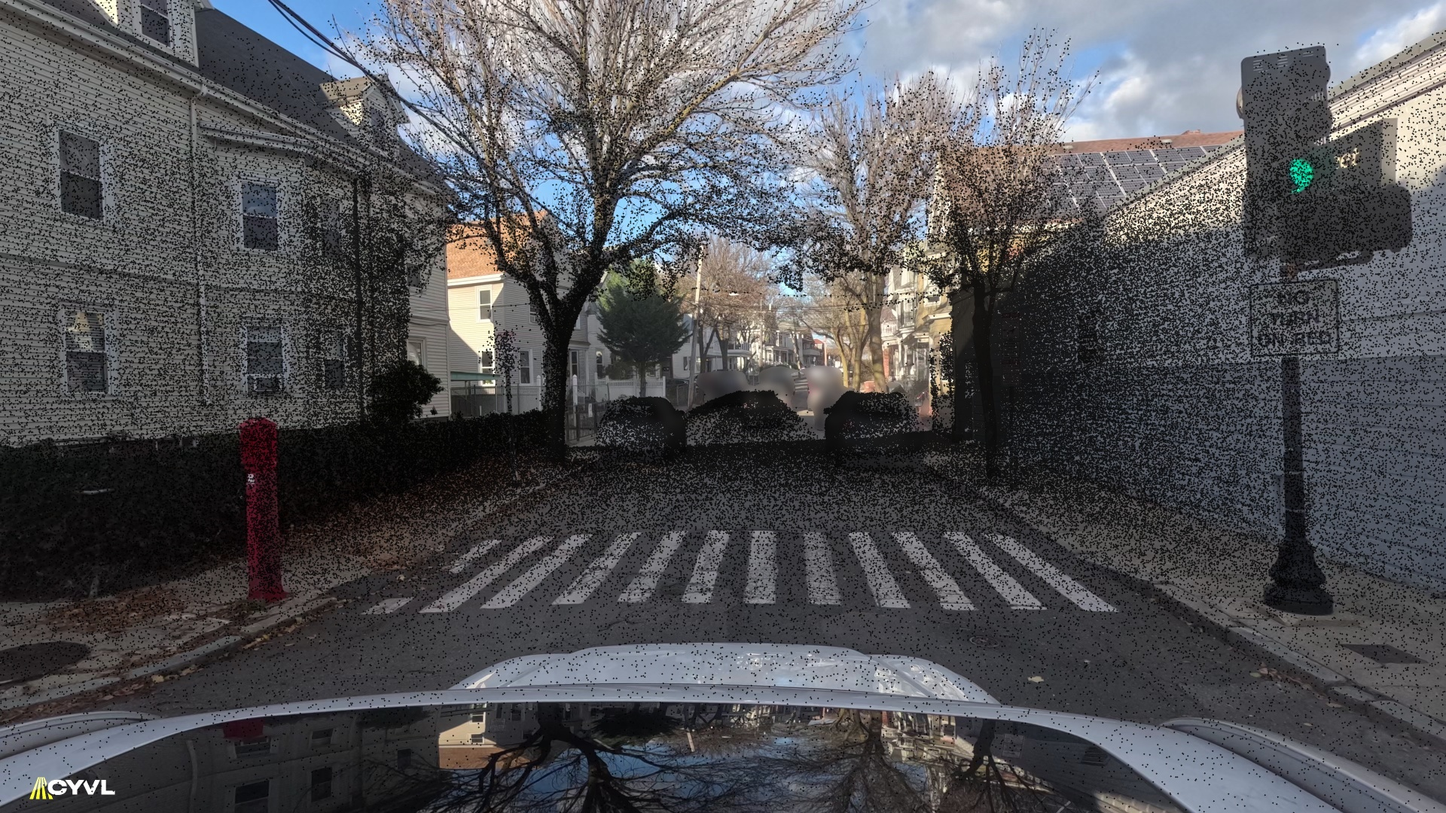
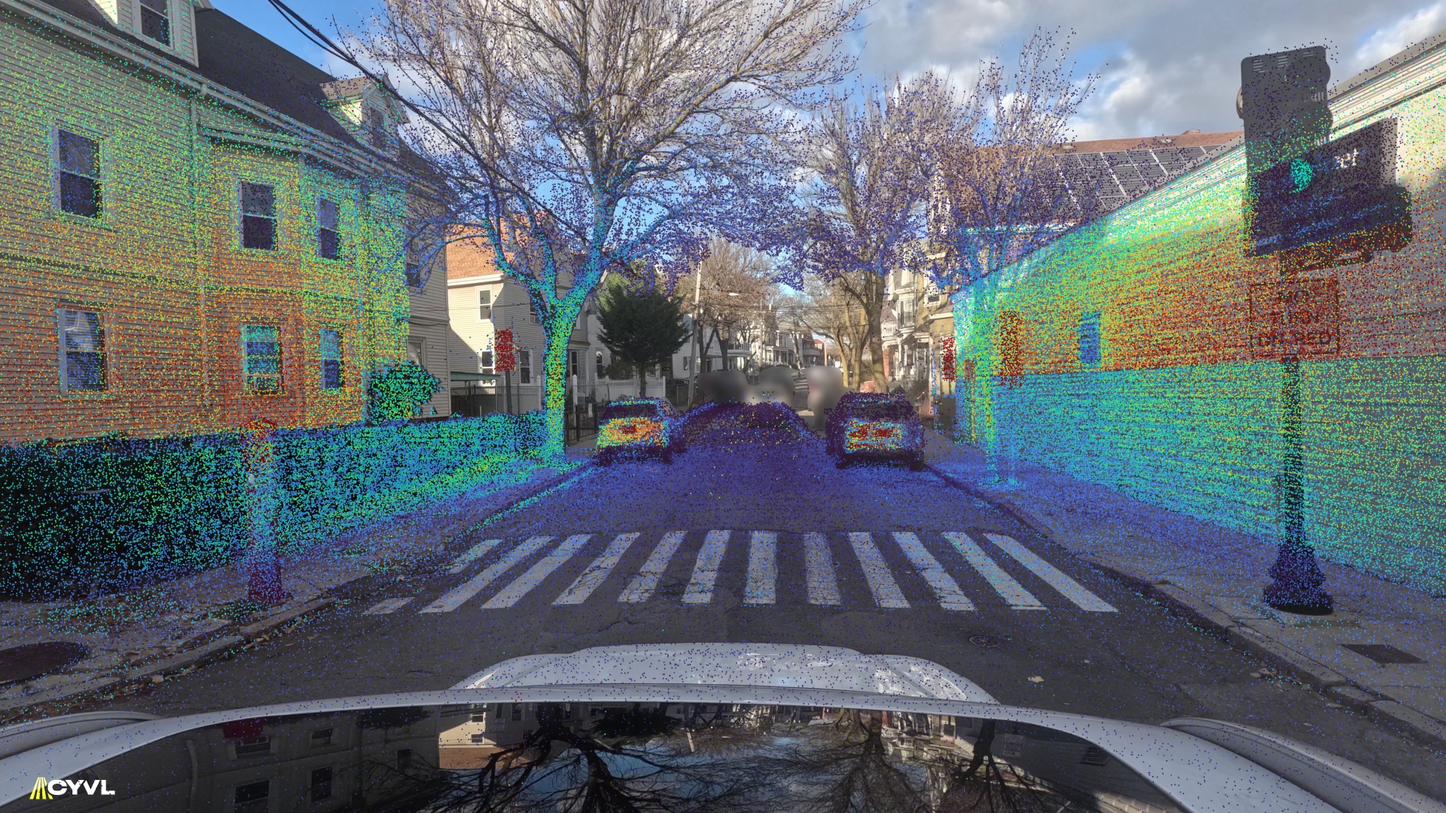
feat: intensity color ramp + tighter same-pass window (5s default)
Ghost vehicles in drapes were moving objects scanned seconds before/after
the shutter (no dynamic classification exists for this scan — checked
tiles AND raw per-scan PCDs). Window sweep on a busy intersection shows
+/-5s is ghost-free with dense coverage; +/-2s for heavy traffic.
Projected now carries intensity; Frame.show defaults to a percentile-
normalized turbo intensity ramp.

diff --git a/src/cyvl/frame.py b/src/cyvl/frame.py
@@ -30,6 +30,7 @@ class Projected:
     in_view: np.ndarray  # (N,) bool: inside frustum AND image bounds
     points_utm: np.ndarray  # (N, 3) the projected world points
     colors: np.ndarray | None = None  # (N, 3) uint8 when source had RGB
+    intensity: np.ndarray | None = None  # (N,) lidar return intensity
 
     def __len__(self) -> int:
         return len(self.pixels)
@@ -100,6 +101,7 @@ class Frame:
         lonlat: np.ndarray | None = None,
         alt: np.ndarray | float = 0.0,
         colors: np.ndarray | None = None,
+        intensity: np.ndarray | None = None,
     ) -> Projected:
         """Project world points into this frame's pixels.
 
@@ -112,6 +114,8 @@ class Frame:
             lonlat: (N, 2) lon/lat pairs (alternative to xyz).
             alt: Altitude(s) used with lonlat, meters.
             colors: Optional (N, 3) per-point colors carried through.
+            intensity: Optional (N,) lidar intensities carried through
+                (drives the default overlay color ramp in Frame.show).
 
         Returns:
             Projected result aligned with the input points.
@@ -147,6 +151,7 @@ class Frame:
             in_view=in_view,
             points_utm=xyz,
             colors=colors,
+            intensity=intensity,
         )
 
     def unproject(
@@ -205,7 +210,7 @@ class Frame:
         radius_m: float = 30.0,
         *,
         same_pass: bool = True,
-        pass_window_s: float = 20.0,
+        pass_window_s: float = 5.0,
     ) -> "PointCloud":
         """Fetch the lidar points surrounding this frame's camera position.
 
@@ -217,7 +222,9 @@ class Frame:
         Args:
             radius_m: Horizontal radius around the camera, meters.
             same_pass: Keep only points captured alongside this photo.
-            pass_window_s: Half-width of the same-pass time window, seconds.
+            pass_window_s: Half-width of the same-pass window, seconds. The
+                default 5 s balances coverage density against moving-object
+                ghosts; tighten to ~2 s on busy streets.
 
         Returns:
             PointCloud in this frame's UTM zone.
@@ -251,7 +258,7 @@ class Frame:
             Projected lidar points (colors carried through when present).
         """
         cloud = self.lidar(radius_m=radius_m, same_pass=same_pass)
-        return self.project(cloud.xyz, colors=cloud.rgb)
+        return self.project(cloud.xyz, colors=cloud.rgb, intensity=cloud.intensity)
 
     def open_viewer(self, radius_m: float = 30.0):
         """Open this frame in the split image/3D browser viewer.

diff --git a/src/cyvl/viz.py b/src/cyvl/viz.py
@@ -41,7 +41,22 @@ def show_frame(
                 visible, max_points, replace=False
             )
         pixels = overlay.pixels[visible]
-        if overlay.colors is not None:
+        if overlay.intensity is not None:
+            # Intensity ramp (percentile-normalized): structure pops far
+            # better than raw RGB — markings, signs, and retroreflectors
+            # read clearly against pavement.
+            values = overlay.intensity[visible].astype(float)
+            lo, hi = np.percentile(values, [2, 98])
+            scatter = ax.scatter(
+                pixels[:, 0],
+                pixels[:, 1],
+                c=np.clip((values - lo) / max(hi - lo, 1e-9), 0, 1),
+                cmap="turbo",
+                s=1.5,
+                alpha=0.85,
+            )
+            plt.colorbar(scatter, ax=ax, label="intensity (normalized)", shrink=0.7)
+        elif overlay.colors is not None:
             colors = overlay.colors[visible] / 255.0
             ax.scatter(pixels[:, 0], pixels[:, 1], c=colors, s=1.5, alpha=0.8)
         else:
